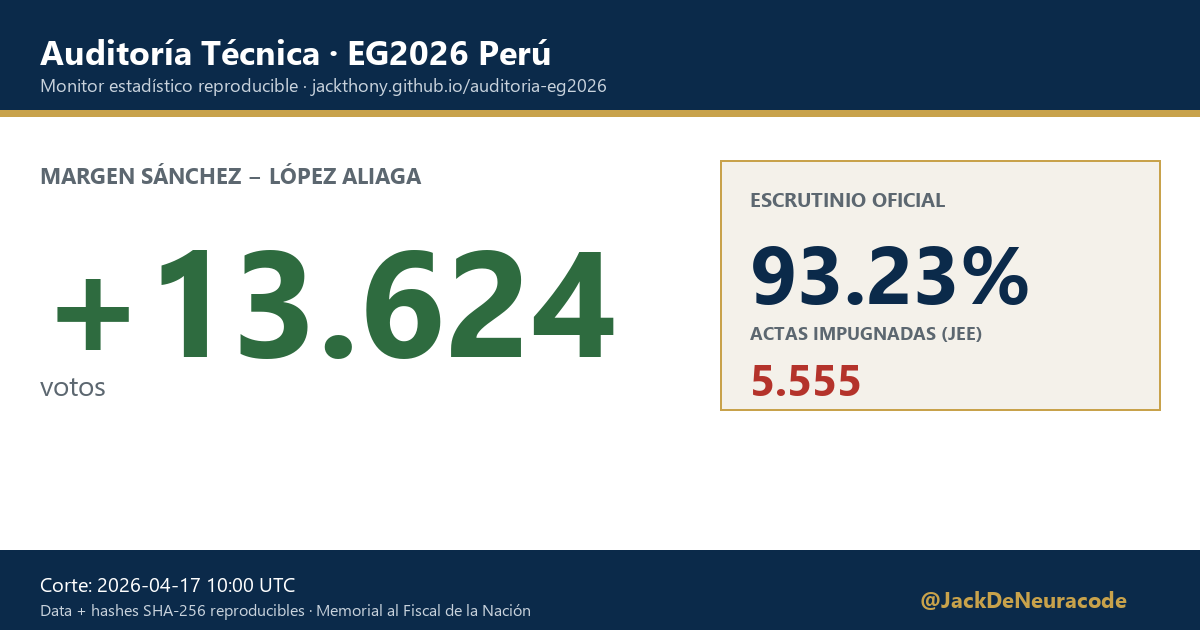
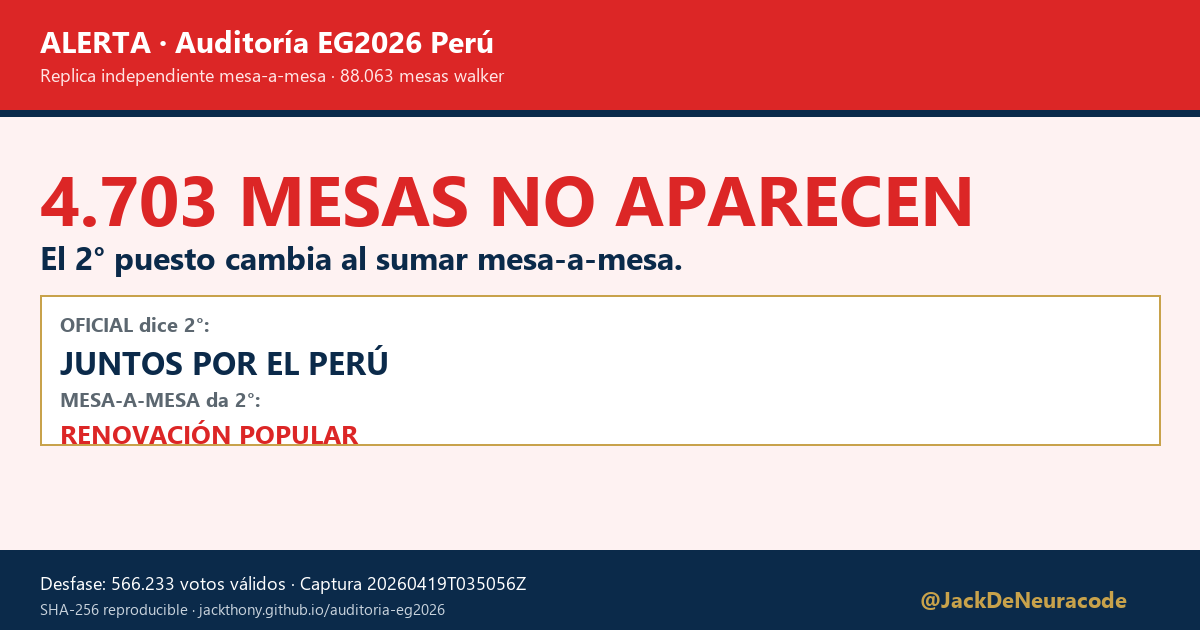
feat(og): OG image con hook Prime (4703 mesas, ranking cambia)

diff --git a/scripts/build_og_image.py b/scripts/build_og_image.py
@@ -1,7 +1,7 @@
-"""Genera web/og-image.png (1200x630) para previews sociales (Twitter/FB/WhatsApp).
+"""Genera web/og-image.png (1200x630) para previews sociales.
 
-Lee web/data.json y dibuja: margen Sánchez−RLA, % escrutado, timestamp UTC.
-Se ejecuta dentro del loop de captura tras `build_dashboard_json.py`.
+Si hay `findings_prime` en data.json, usa hook Prime (mesa-a-mesa, ranking cambia).
+Si no, fallback al margen Sánchez−RLA.
 
 Uso:
     py scripts/build_og_image.py
@@ -21,10 +21,12 @@ W, H = 1200, 630
 NAVY = (11, 42, 74)
 ACCENT = (200, 162, 75)
 RED = (180, 51, 43)
+DANGER = (220, 38, 38)
 GREEN = (46, 107, 63)
 WHITE = (255, 255, 255)
 BG_SOFT = (244, 241, 234)
 MUTED = (92, 103, 112)
+BG_RED = (254, 242, 242)
 
 
 def font(size: int, bold: bool = False) -> ImageFont.FreeTypeFont:
@@ -42,46 +44,83 @@ def fmt_int(n: int) -> str:
     return f"{n:,}".replace(",", ".")
 
 
-def main() -> None:
-    d = json.loads(DATA.read_text(encoding="utf-8"))
-    s = d["state"]
+def render_prime(fp: dict, s: dict) -> Image.Image:
+    F1 = next(f for f in fp["findings"] if f["id"] == "PRIME-F1-RANKING")
+    F2 = next(f for f in fp["findings"] if f["id"] == "PRIME-F2-MESAS-FALTANTES")
+    F3 = next(f for f in fp["findings"] if f["id"] == "PRIME-F3-DESFASE-AGRUPACION")
+    mesas_falt = int(F2["delta_universo"])
+    desfase = int(F3["delta_total"])
+    oficial2 = F1["top10_oficial"][1][0]
+    mesa2 = F1["top10_mesa_a_mesa"][1][0]
+
+    img = Image.new("RGB", (W, H), BG_RED)
+    dr = ImageDraw.Draw(img)
+
+    # Banda roja superior.
+    dr.rectangle([0, 0, W, 110], fill=DANGER)
+    dr.rectangle([0, 110, W, 116], fill=NAVY)
+    dr.text((40, 20), "ALERTA · Auditoría EG2026 Perú", font=font(30, True), fill=WHITE)
+    dr.text((40, 62), "Replica independiente mesa-a-mesa · 88.063 mesas walker",
+            font=font(18), fill=(255, 230, 230))
+
+    # Hook maestro.
+    dr.text((40, 150), f"{fmt_int(mesas_falt)} MESAS NO APARECEN",
+            font=font(70, True), fill=DANGER)
+    dr.text((40, 235), "El 2° puesto cambia al sumar mesa-a-mesa.",
+            font=font(32, True), fill=NAVY)
+
+    # Comparación ranking.
+    dr.rectangle([40, 295, W - 40, 445], fill=WHITE, outline=ACCENT, width=2)
+    dr.text((60, 310), "OFICIAL dice 2°:", font=font(20, True), fill=MUTED)
+    dr.text((60, 340), oficial2[:38], font=font(32, True), fill=NAVY)
+    dr.text((60, 385), "MESA-A-MESA da 2°:", font=font(20, True), fill=MUTED)
+    dr.text((60, 415), mesa2[:38], font=font(26, True), fill=DANGER)
+
+    # Footer navy.
+    dr.rectangle([0, H - 80, W, H], fill=NAVY)
+    dr.text((40, H - 60), f"Desfase: {fmt_int(desfase)} votos válidos · Captura {fp['capture_mesa_ts']}",
+            font=font(18), fill=WHITE)
+    dr.text((40, H - 32), "SHA-256 reproducible · jackthony.github.io/auditoria-eg2026",
+            font=font(15), fill=(200, 210, 220))
+    dr.text((W - 280, H - 46), "@JackDeNeuracode", font=font(22, True), fill=ACCENT)
+    return img
+
+
+def render_margen(s: dict) -> Image.Image:
     margen = int(s["margen_sanch_rla"])
     pct = float(s["pct"])
     ts_h = s["ts_human"]
     actas_jee = int(s["actas_jee"])
-
     img = Image.new("RGB", (W, H), WHITE)
     dr = ImageDraw.Draw(img)
-
-    # Banda navy superior + borde oro.
     dr.rectangle([0, 0, W, 110], fill=NAVY)
     dr.rectangle([0, 110, W, 116], fill=ACCENT)
     dr.text((40, 28), "Auditoría Técnica · EG2026 Perú", font=font(34, True), fill=WHITE)
-    dr.text((40, 72), "Monitor estadístico reproducible · jackthony.github.io/auditoria-eg2026",
-            font=font(18), fill=(200, 210, 220))
-
-    # Margen — el dato estrella.
+    dr.text((40, 72), "Monitor estadístico reproducible", font=font(18), fill=(200, 210, 220))
     color = GREEN if margen >= 0 else RED
     sign = "+" if margen >= 0 else ""
     dr.text((40, 160), "MARGEN SÁNCHEZ − LÓPEZ ALIAGA", font=font(22, True), fill=MUTED)
     dr.text((40, 195), f"{sign}{fmt_int(margen)}", font=font(150, True), fill=color)
     dr.text((40, 365), "votos", font=font(28), fill=MUTED)
-
-    # Bloque derecho: % escrutado + actas JEE.
     box_x = 720
     dr.rectangle([box_x, 160, W - 40, 410], fill=BG_SOFT, outline=ACCENT, width=2)
     dr.text((box_x + 30, 185), "ESCRUTINIO OFICIAL", font=font(20, True), fill=MUTED)
     dr.text((box_x + 30, 215), f"{pct:.2f}%", font=font(82, True), fill=NAVY)
     dr.text((box_x + 30, 320), "ACTAS IMPUGNADAS (JEE)", font=font(18, True), fill=MUTED)
     dr.text((box_x + 30, 348), fmt_int(actas_jee), font=font(44, True), fill=RED)
-
-    # Footer info.
     dr.rectangle([0, H - 80, W, H], fill=NAVY)
     dr.text((40, H - 60), f"Corte: {ts_h}", font=font(20), fill=WHITE)
-    dr.text((40, H - 32), "Data + hashes SHA-256 reproducibles · Memorial al Fiscal de la Nación",
+    dr.text((40, H - 32), "Data + hashes SHA-256 reproducibles",
             font=font(16), fill=(200, 210, 220))
     dr.text((W - 280, H - 46), "@JackDeNeuracode", font=font(22, True), fill=ACCENT)
+    return img
 
+
+def main() -> None:
+    d = json.loads(DATA.read_text(encoding="utf-8"))
+    s = d["state"]
+    fp = d.get("findings_prime")
+    img = render_prime(fp, s) if fp else render_margen(s)
     OUT.parent.mkdir(parents=True, exist_ok=True)
     img.save(OUT, "PNG", optimize=True)
     print(f"OK: {OUT} ({OUT.stat().st_size:,} bytes)")
